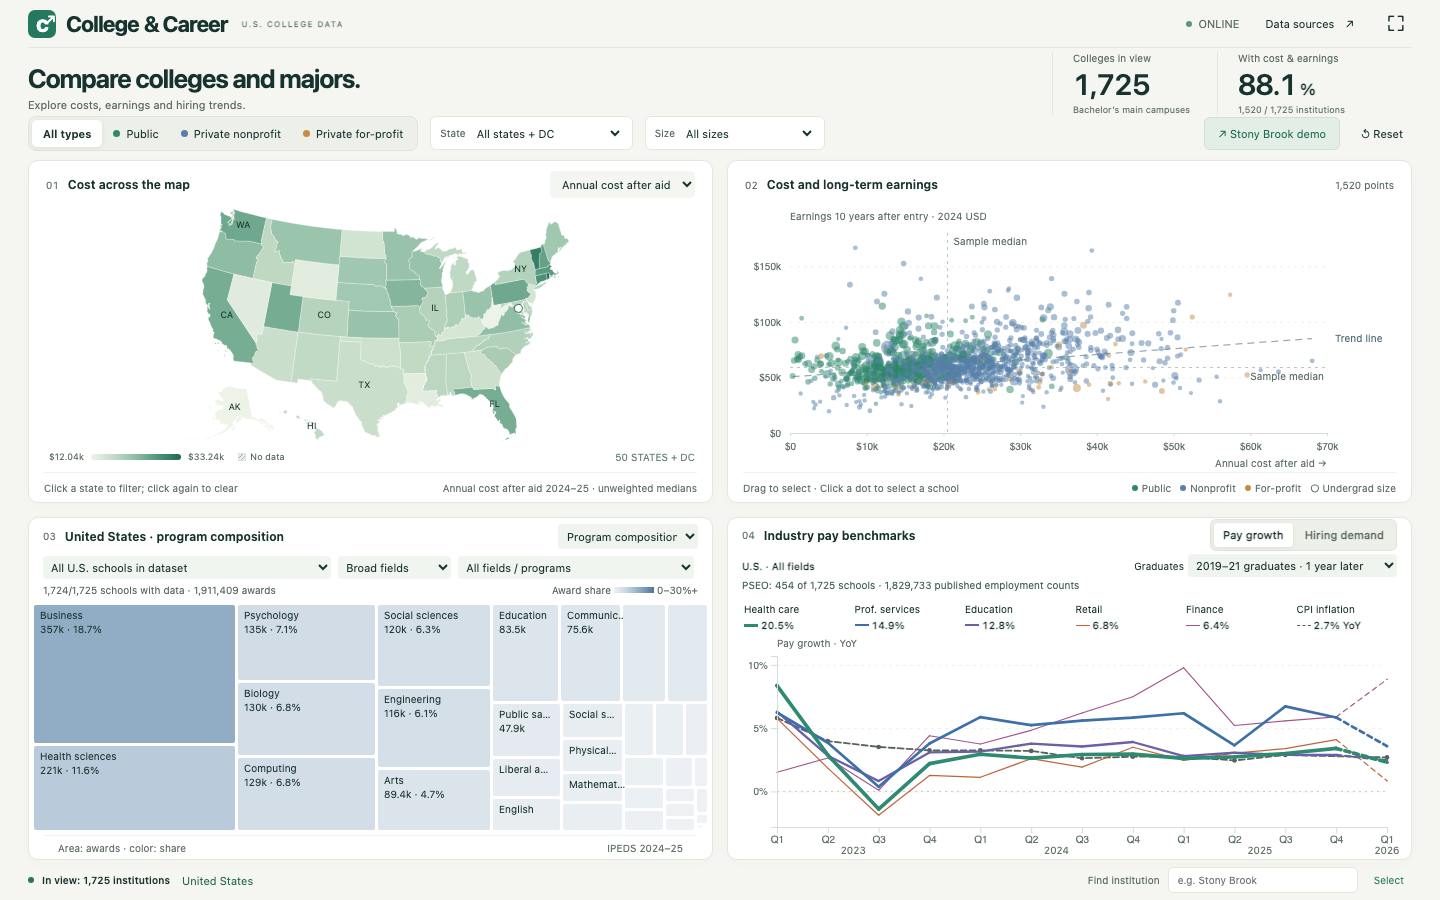
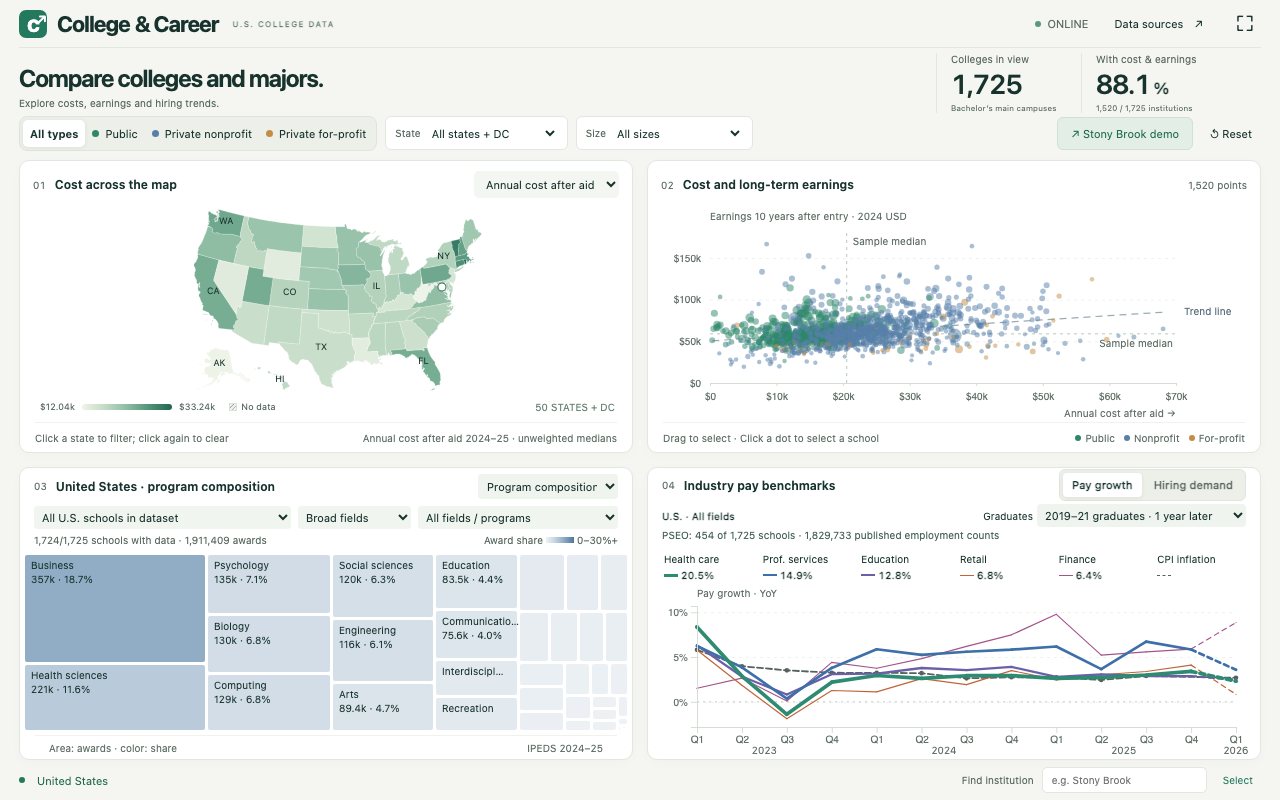
Simplify CPI legend to its dashed reference key

diff --git a/docs/industry-pay.js b/docs/industry-pay.js
@@ -92,12 +92,12 @@ function renderIndustryPay() {
     .attr('disabled',(row)=>!row.available||null)
     .attr('aria-pressed',(row)=>String(industryPayState.focus===row.code))
     .attr('title',(row)=>row.reference
-      ? `CPI inflation · ${latestCPI?latestCPI.label+': '+signedPercent(latestCPI.value)+' YoY':'N/A'}`
+      ? 'CPI inflation'
       : `${row.label} · Share: ${row.count}/${total} · ${(100*row.share).toFixed(1)}%${row.available?'':' · Pay: N/A'}`)
     .html((row)=>{
       const color=row.reference?COLORS.reference:row.available?industryColor(row.code):'#b6bcb8';
       const width=row.reference?1.8:WIDTH_PER_SHARE*row.share;
-      const value=row.reference?(latestCPI?d3.format('.1f')(latestCPI.value)+'% YoY':'N/A'):(100*row.share).toFixed(1)+'%';
+      const value=row.reference?'':(100*row.share).toFixed(1)+'%';
       return `<span>${escapeHtml(row.short)}${row.available?'':' · N/A'}</span><b><i style="border-top:${width}px ${row.reference?'dashed':'solid'} ${color}"></i>${value}</b>`;
     })
     .on('click',(_,row)=>{industryPayState.focus=industryPayState.focus===row.code?null:row.code;hideTooltip();requestRender();});

diff --git a/docs/index.html b/docs/index.html
@@ -10,7 +10,7 @@
       name="description"
       content="Compare U.S. colleges and majors. Explore costs, earnings and hiring trends in four linked views."
     />
-    <link rel="stylesheet" href="styles.css?v=7337753cbe" />
+    <link rel="stylesheet" href="styles.css?v=36afd6ae98" />
     <script defer src="vendor/d3.min.js"></script>
     <script defer src="colors.js"></script>
     <script defer src="states.js"></script>
@@ -28,7 +28,7 @@
     <script defer src="cpi-data.js"></script>
     <script defer src="quarterly-pay-data.js"></script>
     <script defer src="hiring-data.js"></script>
-    <script defer src="industry-pay.js?v=10a9d498b3"></script>
+    <script defer src="industry-pay.js?v=d7b8b3d1b0"></script>
     <script defer src="hiring.js?v=ddb970a7d2"></script>
     <script defer src="school-programs.js"></script>
   </head>

diff --git a/docs/styles.css b/docs/styles.css
@@ -938,3 +938,5 @@ directly in panel four. */
 
 .industry-legend-item i { width:14px; flex-shrink:0; }
 .industry-legend-item b { gap:3px; white-space:nowrap; }
+
+.industry-reference b { min-height:1.2em; }

diff --git a/CODE_GUIDE.md b/CODE_GUIDE.md
@@ -71,6 +71,5 @@ active styling and pay-data availability. Native button keyboard behavior is ret
 
 
 The pay legend appends CPI as a sixth peer entry. Industry numbers remain
-employment shares; CPI shows the latest observed inflation rate with a YoY
-suffix. Clicking CPI highlights the reference without changing the weights.
+employment shares; CPI shows only its name and dashed reference key. Clicking CPI highlights the reference without changing the weights.
 The chart no longer repeats a separate CPI key inside the plot.
